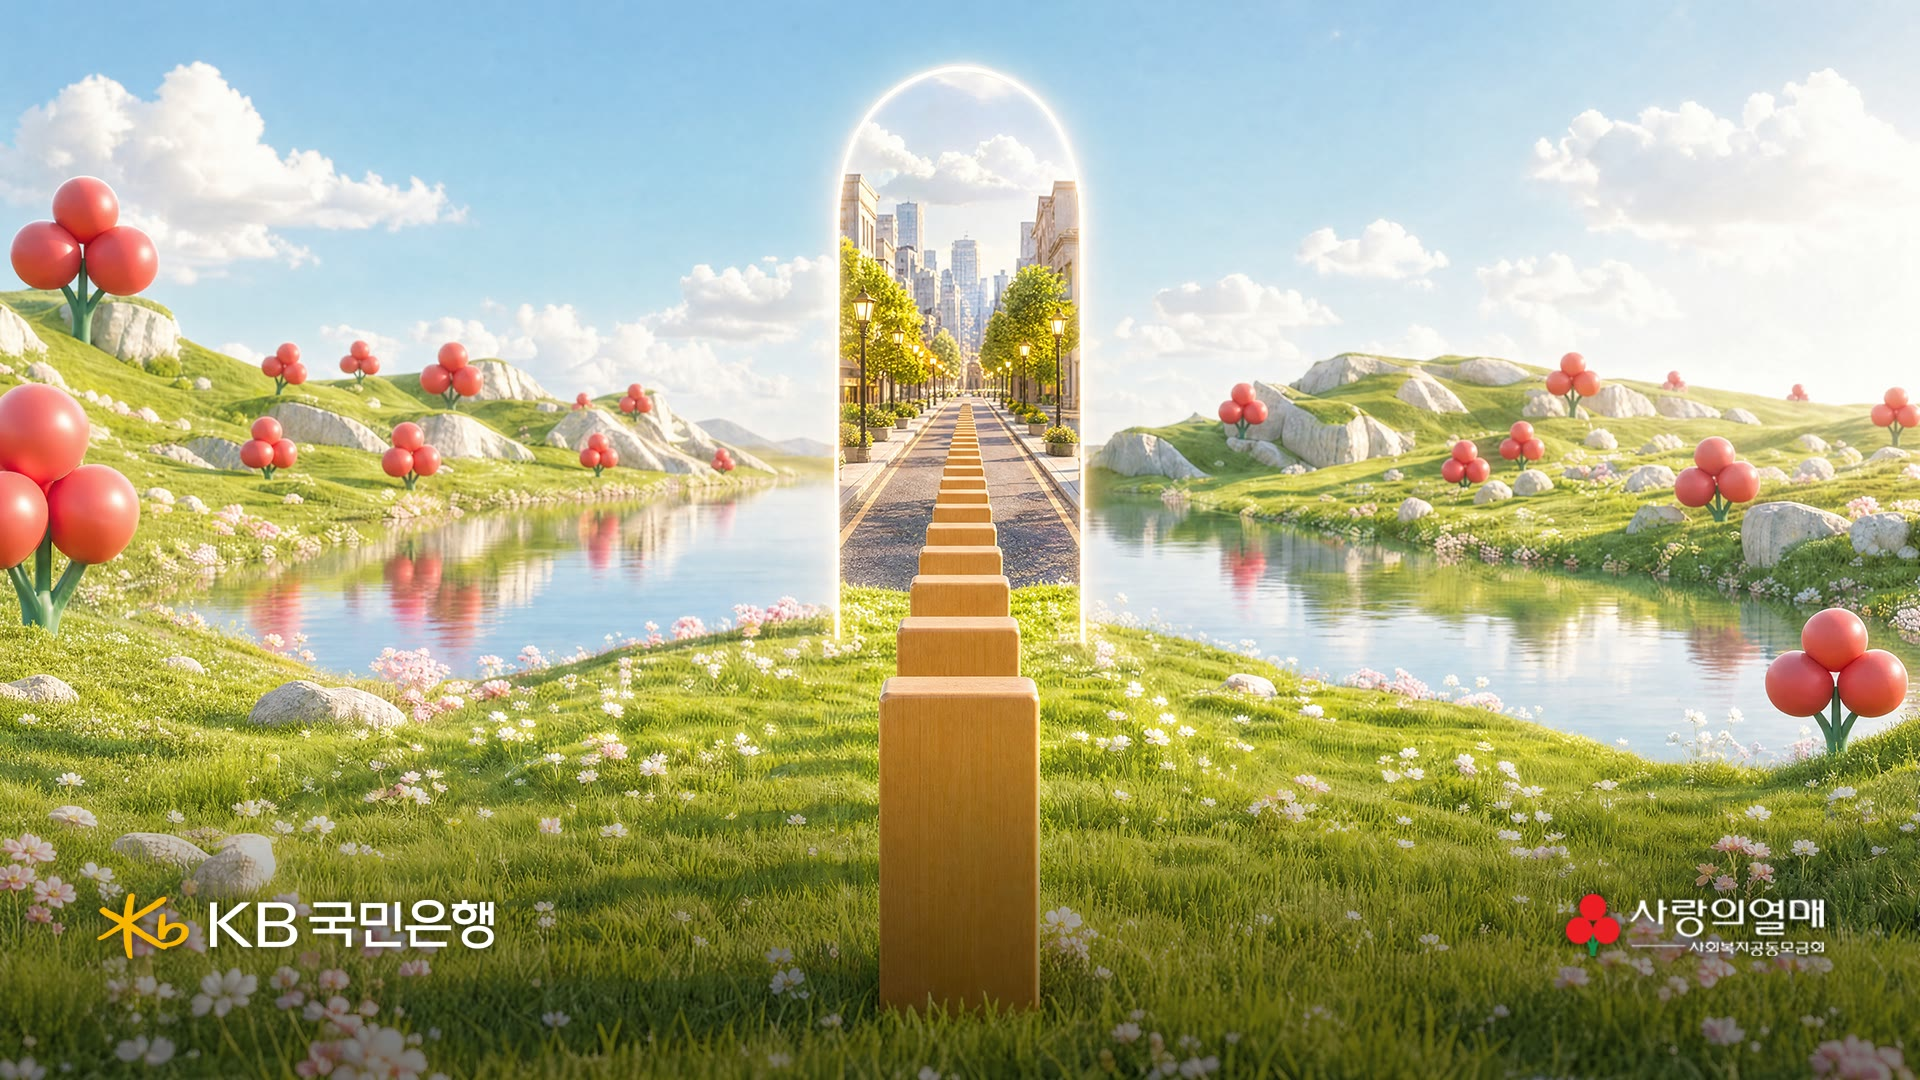
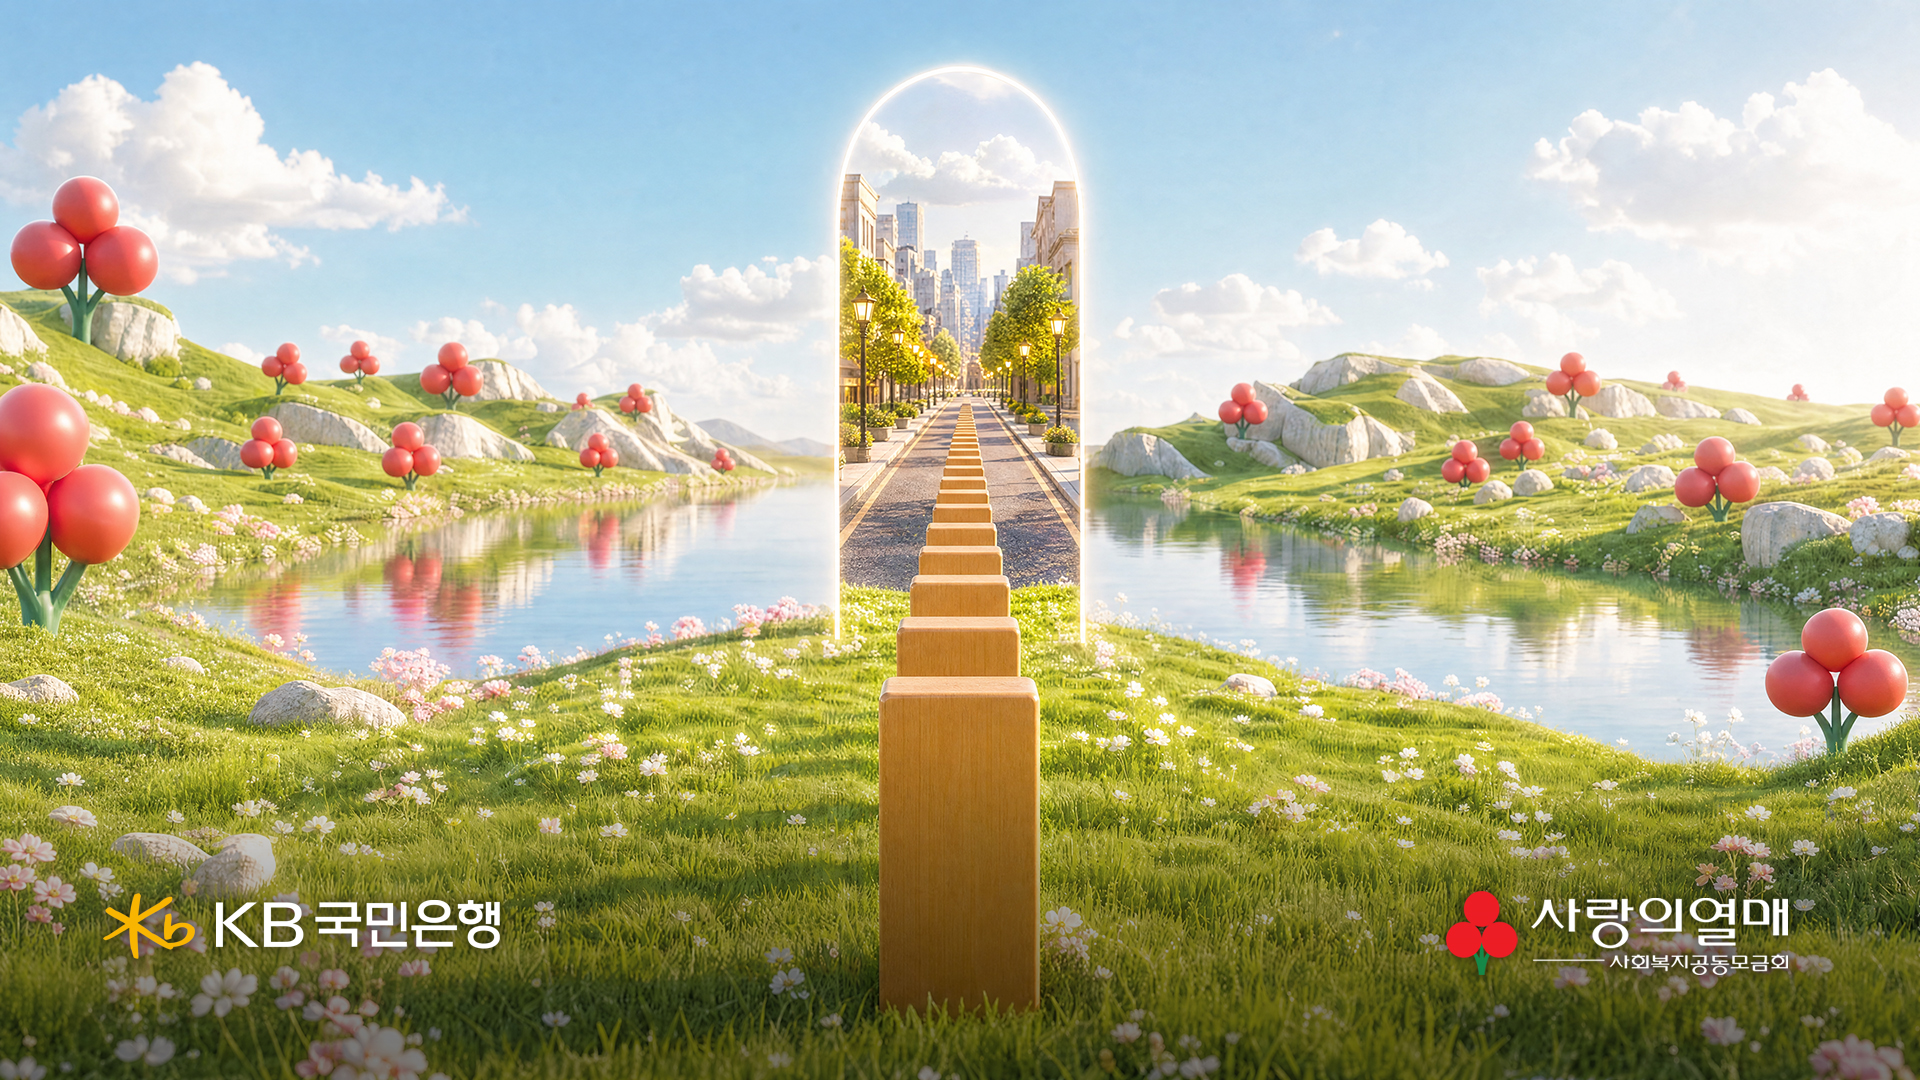
스토리보드를 열한 컷 구성으로 바꾸고 뒤 세 컷을 다시 짠다
09  탑뷰 · 수렴    도심 곳곳의 줄이 중앙 오브제로 모여 쓰러진다
  10  빛이 터진다    모인 것이 빛으로 바뀐다
  11  나눠 준다      빛이 도심으로 퍼지고 로고가 뜬다 · 기념촬영 구도

방향이 한 번 뒤집히는 것이 이 구성의 뼈대다. 01~08 은 바깥으로 퍼지고, 09 에서
안으로 모이고, 10~11 에서 다시 바깥으로 나간다. 09 가 그 접점이라 열한 컷 중
유일하게 탑뷰여야 한다 — 흩어진 것이 한 점으로 모이는 건 위에서만 보인다.
앞 컷들이 눈높이라 각도 전환 자체가 「뒤집혔다」는 신호가 된다.

로고를 CUT 10 에서 11 로 옮긴다. 09 · 10 은 그림이 없어 빈 판으로 둔다.
걸려 있던 cut09.jpg(스타벅스 미니어처)는 새 계획과 맞지 않아 뗐다 — 파일은
지우지 않고 남겨 뒀다.

CUT 11 은 성금 전달식 배너를 대신하는 장이라 그 앞에서 사진이 찍혀야 한다.
가운데 아래를 비우고, 로고는 좌우 끝에 두고, 가운데를 너무 밝게 하지 않는다 —
배경이 인물보다 밝으면 역광이 된다. assets/led/README.md 에 적어 뒀다.

diff --git a/js/storyboard.js b/js/storyboard.js
@@ -70,15 +70,23 @@
       say: '-', snd: '-',
       l1: '-', l2: '-' },
 
+    /* 09 — 탑뷰. 도심 곳곳에서 온 줄들이 중앙 오브제로 모여 쓰러진다.
+       흩어져 있던 것이 한 점으로 모이는 장이라 위에서 봐야 읽힌다. */
     { no: 'CUT 09', ph: '-',
-      img: 'assets/led/cut09.jpg',
       say: '-', snd: '-',
       l1: '-', l2: '-' },
 
-    /* 마지막 프레임 — 좌 후원사 · 우 사랑의열매. 배경 그림은 아직 없다.
-       두 로고는 화면에 얹히는 별개 레이어이고, 자리는 08p 세이프박스와 같은
-       규격(30% × 26%, 안쪽으로 6%)이다. 기업이 바뀌면 왼쪽만 갈아 끼운다. */
+    /* 10 — 중앙 오브제에서 빛이 터진다. 모인 것이 빛으로 바뀌는 장. */
     { no: 'CUT 10', ph: '-',
+      say: '-', snd: '-',
+      l1: '-', l2: '-' },
+
+    /* 11 — 마지막 프레임. 빛이 도심 곳곳으로 흩어지고 좌 후원사 · 우 사랑의열매
+       로고가 뜬다. 성금 전달식 배너를 대신하는 장이라 **가운데를 비워** 그 앞에서
+       기념촬영이 되는 구도여야 한다. 로고를 좌우 끝에 두는 이유가 그것이다.
+       자리는 08p 세이프박스와 같은 규격(30% × 26%, 안쪽으로 6%)이고, 기업이
+       바뀌면 왼쪽 파일만 갈아 끼운다. 배경 그림은 아직 없다. */
+    { no: 'CUT 11', ph: '-',
       logos: true,
       say: '-', snd: '-',
       l1: '-', l2: '-' }

diff --git a/index.html b/index.html
@@ -265,7 +265,7 @@
           </div>
           <div class="sb-counter">
             <span class="sb-counter__cur" id="sbCur">01</span>
-            <span class="sb-counter__tot" id="sbTot">/ 10</span>
+            <span class="sb-counter__tot" id="sbTot">/ 11</span>
           </div>
         </header>
 
@@ -282,7 +282,7 @@
         </div>
       </div>
       <div class="sb-hint">
-        <span class="sb-hint__note">- 열 컷은 터치디자이너로 구축한 <b>하나의 씬</b>을 카메라 위치로 제어해 담을 화면입니다.<br />- 컷마다 <b>그 순간에 나는 소리</b>를 함께 적습니다 — 콘텐츠 음향은 저희가 만들어 붙입니다.<br />- 무대에 선 사람과 LED 앞 실물 도미노는 설명용 표시이며 화면에 나오는 것이 아닙니다. 「사람 위치」 버튼으로 끄고 켭니다.</span>
+        <span class="sb-hint__note">- 열한 컷은 터치디자이너로 구축한 <b>하나의 씬</b>을 카메라 위치로 제어해 담을 화면입니다.<br />- 컷마다 <b>그 순간에 나는 소리</b>를 함께 적습니다 — 콘텐츠 음향은 저희가 만들어 붙입니다.<br />- 무대에 선 사람과 LED 앞 실물 도미노는 설명용 표시이며 화면에 나오는 것이 아닙니다. 「사람 위치」 버튼으로 끄고 켭니다.</span>
       </div>
     </section>
 
